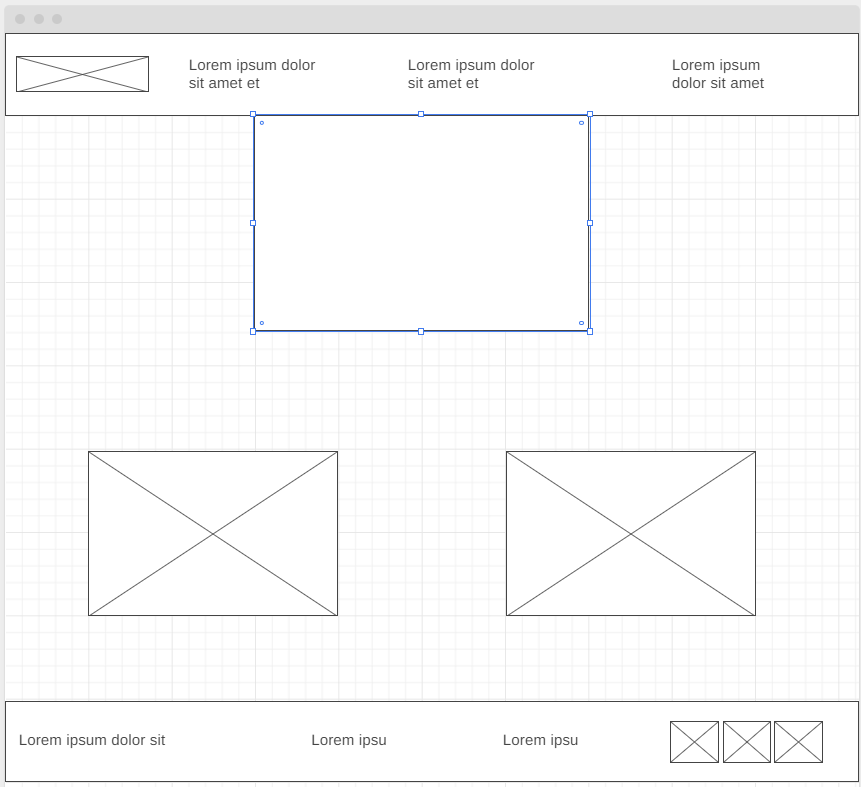
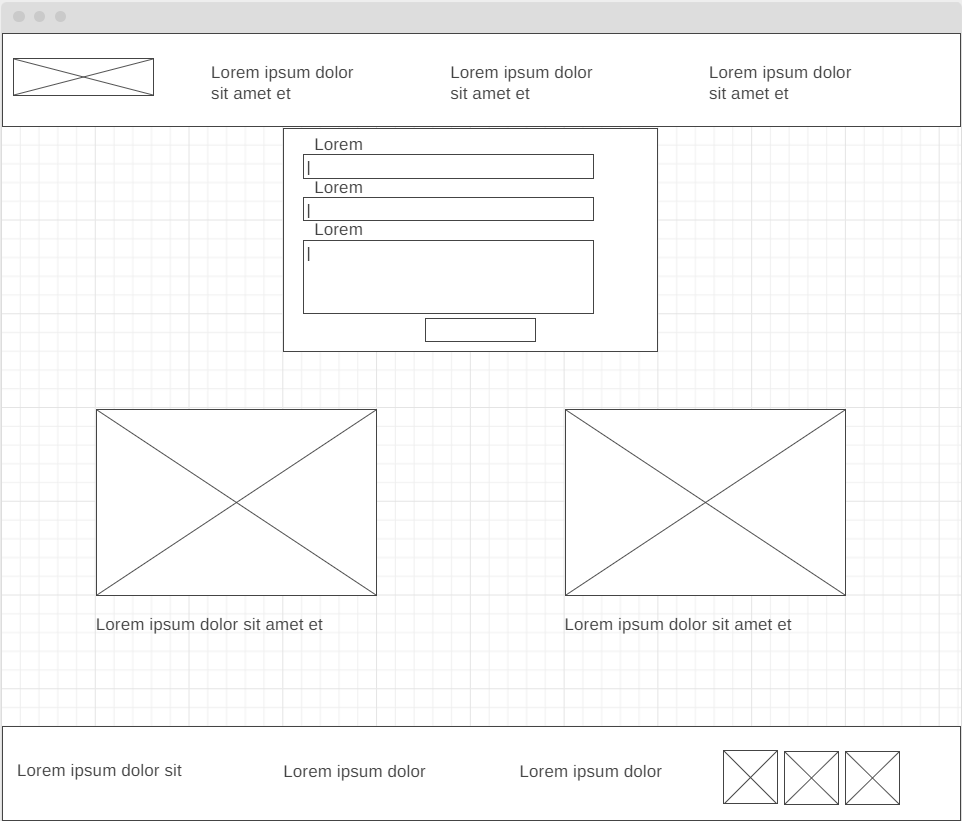
Final

diff --git a/pts/site-plan.html b/pts/site-plan.html
@@ -140,10 +140,22 @@
 
       <p>I have been doing the hard work, so all you have to do is keep up the good work. Space You just sign up, 
         and I will keep you on the right track.</p>  
-
       <p>Images for the Home page</p>
         <img src="images/herotest.jpg" alt="gym image">
         <img src="images/photo1.jpg" alt="Gym image">
+
+      <p>Hi, my name is Christian Landaverde. I am an online and in person fitness coach and trainer.</p>
+      <p>I began my fitness journey during my teenage years in high school because I was really skinny.
+        I got a gym membership at the age of 18 when I graduated high school, and as time went on, I started to
+        have a passion for intense weight training.</p>
+      <p>Since then, I have always enjoyed the process of physically and mentally changing for the better.
+        I believe everyone is capable of becoming the best version of themselves, so I want to spread inspiration
+        and motivation to many, to show them that it is possible!</p>
+      <p>I did not have a trainer when I started, so I spent a lot of time watching YouTube videos. I have had many injuries
+        in the process, so I have spent the last 5 years researching fitness, and better ways to work out and eat.
+        I also took some nutrition, and fitness classes in College. </p>
+      <p>Let me help you save you all that time, and injuries by sharing my knowledge with you, so that you can start your
+        fitness journey.</p>
 
       </ul>
       <h3>Programs</h3>
@@ -169,7 +181,9 @@
       
       <p>Images for the Page 3</p>
         <img src="images/special.jpg" alt="Motivational Quote image">
+        <h2>Believe in yourself to make your life special</h2>
         <img src="images/goup.jpg" alt="Motivational Quote image">
+        <h2>Just keep going to accomplish your goals</h2>
 
       </ul>
       <hr>
@@ -180,21 +194,21 @@
         Create three wireframes for your site. One for each page and list them here</p>
 
       <h3>Home</h3>
-      <p>         
+      <!-- <p>         
         [Any additional details about home that the wireframe does not make clear]
-      </p>
+      </p> -->
       <img src="images/home_wf.png" alt="home page wireframe">
 
       <h3>Online program</h3>
-      <p>         
+      <!-- <p>         
         [Any additional details about page 2 that the wireframe does not make clear]
-      </p>
+      </p> -->
       <img src="images/program_wf.png" alt="page 2 wireframe">
 
       <h3>Contact Me</h3>
-      <p>         
-        The blue box is the contact form
-      </p>
+      <!-- <p>         
+        [Any additional details about page 3 that the wireframe does not make clear]
+      </p> -->
       <img src="images/contact_wf.png" alt="page 3 wireframe">
     </main>
   </body>

diff --git a/pts/index.html b/pts/index.html
@@ -21,7 +21,7 @@
     </header>
     <div id="hero">
         <div id="hero-box">
-            <img id="hero-img" src="images/herotest.jpg" alt="hero image">
+            <img id="hero-img" src="images/herotest1.jpg" alt="hero image">
         </div>
         <section id="hero-msg">
             <h1 class="home-title">Personal Coaching</h1>
@@ -73,9 +73,9 @@
                 <h2>About Me</h2>
                 <p>Hi, my name is Christian Landaverde. I am an online and in person fitness coach and trainer.</p>
                 <p>I began my fitness journey during my teenage years in high school because I was really skinny.
-                I got a gym membership at the age of 18 when I graduated high school, and as time went on I started to
+                I got a gym membership at the age of 18 when I graduated high school, and as time went on, I started to
                 have a passion for intense weight training.</p>
-                <p>Since then I have always enjoyed the process of physically and mentally changing for the better.
+                <p>Since then, I have always enjoyed the process of physically and mentally changing for the better.
                 I believe everyone is capable of becoming the best version of themselves, so I want to spread inspiration
                 and motivation to many, to show them that it is possible!</p>
                 <p>I did not have a trainer when I started, so I spent a lot of time watching YouTube videos. I have had many injuries

diff --git a/pts/programs.html b/pts/programs.html
@@ -44,7 +44,7 @@
                 <p>Do not worry! You can schedule an in person session with me, and I will be next to you during the whole workout session.
                 I will be personally showing you how to execute the exercises step by step, counting your repetitions, and checking the 
                 rest time.</p>
-                <p>I'll be in touch with you within 2 - 3 business days to schedule an 1 on 1 in person training session.</p>
+                <p>I'll be in touch with you within 2 - 3 business days to schedule a 1 on 1 in person training session.</p>
                 <div class='button-box'>
                     <a class="book" href="#">Book Now</a>
                 </div>

diff --git a/pts/contacme.html b/pts/contacme.html
@@ -44,9 +44,11 @@
         <div id="photos">
             <section>
                 <img class="photo-l" src="images/special.jpg" alt="Motivational Quote image">
+                <h2>Believe in yourself to make your life special</h2>
             </section>
             <section>
                 <img class="photo-r" src="images/goup.jpg" alt="Motivational Quote image">
+                <h2>Just keep going to accomplish your goals</h2>
             </section>
         </div>
     </main>
